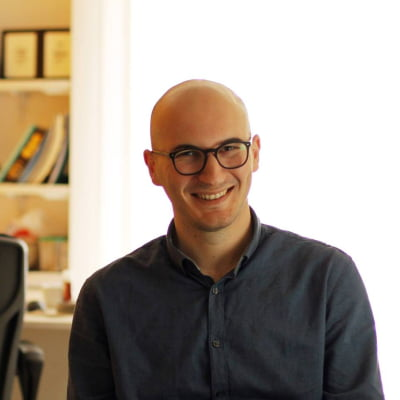
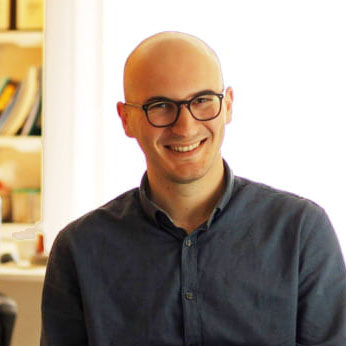
fixed up muhamet's and dijon's pics

diff --git a/dist/js/data.js b/dist/js/data.js
@@ -1,1 +1,1 @@
-var speakers={speakersks:[{img:"img/ermirsuldashi.png",name:"Ermir Suldashi",occupation:"Hacker i njëfarë lloji","img-id":1,text:"Ermir Suldashi",p1:"Ermiri gjithmonë ka dashur të prezantojë në konferencë, prandaj e krijoi debugCon pikërisht për këtë qëllim! \n       Ermirit i pëlqen të eksperimentojë me teknologji të ndryshme, dhe kohëve të fundita po i teston teknologjitë multimediale,\n       duke u fokusuar në WebRTC dhe teknologji tjera të kohës reale.",p2:"Në sistemet multiplayer të videolojave moderne, UDP protokoli përdoret për t'i lidhur lojtarët për shkak të shpejtësisë\n        qe mund të arrihet me të. Lojat e implementuara me JavaScript në browserë nuk e kanë pasur këtë mundësi, që e ka mbajtur\n        mbrapa zhvillimin e kësaj platforme. Në prezentimin e tij, Ermiri do te flase se si teknologjitë e reja me WebRTC mund\n        ta simulojnë UDP për lidhje të shpejta midis lojtarëve, me topologjitë Peer-to-peer dhe Client-Server.",daysText:"",daysSubject:""},{img:"img/denathoxha.jpg","img-id":2,name:"Denat Hoxha",occupation:"Dashamir i arkitekturës dhe dizajnit të softuerit",text:"Denat Hoxha",p1:"Denati që një kohë të gjatë punon profesionalisht në web, dhe ka kaluar nëpër gjuhë programuese dhe frameworks të ndryshme. \n       Përderisa këto kanë ardh e kanë shku, çka ka mbetë nëvojë konstante është kodi i pastër dhe i lexueshëm.",p2:"Dizajn patern-at (Design patterns) janë vegla të dobishme për ata që i njohin dhe dijnë kur me i apliku. Mirëpo, ka\n        shumë raste kur përfundon tu shkaktu dëm, nëse tenton me i apliku aty ku nuk duhet. Denati ka me i prezantu disa shembuj \n        të kurthave të tilla.",daysText:"",daysSubject:""},{img:"img/admir.jpg",name:"Admir Kadriu",occupation:"Full-stack Developer","img-id":3,text:"Admir Kadriu",p1:"Admiri është zhvillues me disa vite përvoje, dhe është dashamir i madh i Redis dhe JavaScript. Në \n        moment punon në Inspire11 Prishtina dhe ligjëron disa lëndë ne Univerzitetin e Prishtinës - FIEK.",p2:"Redis është databazë në memorie (in-memory database) që përdoret gjërësisht si cache, key-value storage, dhe plot\n        përdorime tjera. Këtë vit Redis i mbush 10 vjet (🎂). Në prezantimin e tij, Admiri do të paraqesë disa teknika dhe dobi të Redis në back-end sisteme.",daysText:"",daysSubject:""},{img:"img/rozafa.jpg",name:"Rozafë Llalloshi",occupation:"Full-stack Developer","img-id":4,text:"Rozafë Llalloshi",p1:"",p2:"",daysText:"",daysSubject:""},{img:"img/visar.jpg",name:"Visar Shehu",occupation:"Developer, arkitekt softueri, profesor","img-id":5,text:"Visar Shehu",p1:"Visar Shehu është profesor i asocuar në Universitetin e Evropës Juglindore në Tetovë, Maqedoni. \n        Gjithashtu, ai është edhe drejtor teknik i kompanise Inspire11 në Maqedoni.",p2:"Duke punuar dhe udhëhequr projekte të shumta, Visari ka pasur fatin e mirë që të mesojë dhe provojë\n         shumë gjuhë programuese. Ai është entuziast i teknologjisë dhe këtë entuziazëm dëshiron ta ndajë me të tjerët. Për\n          këtë arsye ai ka vendosur t'i indoktrinojë gjeneratat më të reja. Visari do të flasë për disa iniciativa në STEM \n          edukim dhe çfarë ai përdor për të infektuar të rinjtë me virusin e programimit.",daysText:"",daysSubject:""},{img:"img/tali.jpg",name:"Mehmetali Shaqiri",occupation:"Mjeshtër i infrastrukturës dhe arkitekturës të softuerit","img-id":6,text:"Mehmetali Shaqiri",p1:"",p2:"",daysText:"",daysSubject:""},{img:"img/lum_zhaveli.jpg",name:"Lum Zhaveli",occupation:"Backend Developer, olimpist","img-id":7,text:"Lum Zhaveli",p2:"Lumi do të flasë për efikasitetin energjitik të datacenters, dhe si mund \n        të ulim emetimet e karbonit duke shkruar kod efikas për ndërmarrje dhe pajisje mobile.",p1:"Lumi mirret me programim prej nga mosha 15 vjeçare. Ai punon si Senior Back-End Java\n         developer në OpenResearch. Pasionet e tij në shkencat kompjuterike janë High Performance \n         Computing, Parallel Computing, dhe Computer Graphics (ray-tracing).",daysText:"",daysSubject:""},{img:"img/egzon_zeneli.jpg",name:"Egzon Zeneli",occupation:"","img-id":8,text:"Egzon Zeneli",p1:"Egzoni është Chief Development Officer në Solaborate, ku menaxhon ekipin e softuerit. Nën lidershipin e Egzonit, Solaborate u bart në microservices që lejoi rritjen dhe integrimin e shërbimeve të HELLO 2 në rrjetin e Solaborate.",p2:"Egzoni do të tregojë për disa sfida teknike, në të cilat ka hasur edhe vet, gjatë zhvillimit në gjuhën programuese Go.",daysText:"",daysSubject:""},{img:"img/arnold.gif",name:"Arnold Plakolli",occupation:"iOS Developer","img-id":9,text:"Arnold Plakolli",p1:"Arnoldi është zhvillues me disa vite përvojë pune dhe admirues i produkteve të Apple. \n        Për momentin punon në Solaborate si iOS developer. Arnoldi ka qenë pjesë e ekipit fitues Kosovar në garën\n        Nasa Space Apps 2015 me aplikacionin NatEv Explorer. Vizitoi NASA në Floridë si shpërblim, po nuk e pa lansimin e\n         raketës për shkak se u anulua prej shiut dhe motit të keq.",p2:"Dependency managers janë pjesë kyçe e sistemeve moderne të progamimit, dhe e bëjnë integrimin e librarive të\n         ndryshme shumë të lehtë. Arnoldi do të prezantoj përdorimin, të mirat dhe të metat e dependency managers të ndryshëm \n         për projektet e bazuara në Swift.",daysText:"",daysSubject:""},{img:"img/gent_bicaj.jpg",name:"Gent Bicaj",occupation:"Software Developer, pronar i 20 palë këpucëve për hiking","img-id":10,text:"Gent Bicaj",p1:"Genti ka nje eksperiencë pune si zhvillues i softuerëve dhe per momentin punon si BackEnd Developer në Solaborate\n         LLC. Genti kryesisht zhvillon në .NET por nganjëherë  edhe në React (JS & Native).",p2:"Çka i pelqejnë Gentit shumë janë Stored Procedures dhe SQL-Queries, për këtë arsye ai ka zgjedh me na tregu qysh\n         indeksat e rrisin performancen në SQL.",daysText:"",daysSubject:""},{img:"img/robert.jpg",name:"Robert Shala",occupation:"Information Security Specialist","img-id":11,text:"Robert Shala",p1:"Roberti është Drejtor dhe Specialist i Sigurimit të Informacioneve në Sentry Cybersecurity, një prej të vetmeve kompani të tilla \n        në Kosovë. Jashtë teknologjisë, Roberti është muzikant i flaktë dhe merr pjesë në disa grupe muzikore.",p2:"Aplikimi i AI/ML algoritmeve është bërë i dëshirueshëm në shumë produkte sepse është efektiv për zgjidhjen e shumë problemeve. Roberti\n         do të flasë për trendet dhe teknikat ofansive kundër AI/ML algoritmeve si dhe rreziqet në implementime të ndryshme.",daysText:"",daysSubject:""},{img:"img/fiona_podrimaj.jpg",name:"Fiona Podrimaj",occupation:"PO/iOS Developer","img-id":12,text:"Fiona Podrimaj",p1:"Fiona aktualisht punon si Product Owner në SPRIGS dhe mirret me zhvillimin e aplikacioneve mobile, përkatësisht iOS.",p2:"Fiona do te flasë për JIRA, softuer menaxhues e cila po përdoret më shumë e më shumë nga zhvilluesit; mirëpo, \n        pak prej nesh dijmë se si ta përdorim maksimalisht potencialin e kësaj vegle.",daysText:"",daysSubject:""},{img:"img/driton.jpg",name:"Driton Haxhiu",occupation:"Developer and tech evangelist","img-id":13,text:"Driton Haxhiu",p1:"Dritoni ka pasion teknologjinë dhe shpërndarjen e saj në gjeneratat e reja. Ai ka mbajur dhjetra kurse, workshope, dhe panele,\n        me grupe të të gjitha moshave, duke perfshirë edhe grupin e fëmijëve Young Coders Kosovo.",p2:"Në React aplikacionet komplekse është vështirë të pasohen të dhënat prej një komponenti në tjetrin nëse nuk kanë\n         prind të përbashkët. Për zgjidhjen e këtij problemi janë shpikur veglat si Redux dhe React Context, dhe Dritoni do të flasë për\n         përparësitë dhe mangësitë e këtyre veglave.",daysText:"",daysSubject:""},{img:"img/rita.jpg",name:"Rita Dobruna",occupation:"Android Developer","img-id":14,text:"Rita Dobruna",p1:"Rita punon si Android Developer në kompaninë OpenResearch. Jashtë programimit, Rita ka pasion vallëzimin, meditimin, dhe yoga.",p2:"Si programere me përvojë shumëvjeçare me Android, Rita ka pasur rast të jetë pjesë e disa projekteve që përdorin Java, por \n        edhe Kotlin. Kotlin, si gjuha e ardhmërisë së Android, preferohet të përdoret nga Google, por hala egziston shumë kod në Java\n        që duhet të bashkëpunojë ose të bartet në Kotlin. Rita do të flasë për tranzicionin nga Java në Kotlin në kontekst të Android.",daysText:"",daysSubject:""},{img:"img/grese.jpg",name:"Gresë Hyseni",occupation:"Web Developer","img-id":15,text:"Gresë Hyseni",p1:"Gresa ka qenë Web Developer për më shumë se tre vite. Vitin e fundit ajo ka hyre edhe në botën e të dhënave, \n        por programimi në web vazhdon të jetë pasion i saj. Në eksperiencën e fundit të saj gjatë një programi certifikues\n         në web, ajo u njoftua me shumë teknologji të reja e të dobishme, ndër to është edhe Flexbox.",p2:"Flexbox është sistemi më i ri i vendosjes dhe shpërndarjes së elementeve në HTML përmes CSS. Ky sistem u shpik nga \n        prodhuesit e browserëve dhe grupit punues WHATWG për shkak të vështirësive të deriathërëshme për një gjë të tillë. \n        Me Flexbox është e mundur të përzihen elementet me dimenzione fikse dhe ato fleksibile, dhe të bëhet rirenditja sipas\n         rrethanave dhe materialeve. Gresa do të flasë për disa teknika të Flexbox dhe përparësitë e tyre.",daysText:"",daysSubject:""},{img:"img/sadi.jpg",name:"Sadi Qevani",occupation:"Blockchain developer, dhe shumë tjera","img-id":16,text:"Sadi Qevani",p1:"Sadi e krijoi dhe shiti biznesin e tij të parë teknologjik hala pa i mbushur 20 vjet. Ka udhëtuar botën, ka provuar\n        çdo teknologji të mundshme, dhe vjen nga Berlini veçanërisht për debugCon. Momentalisht punon si Lead Blockchain Developer\n        në Ape Unit në Berlin, Gjermani.",p2:"",daysText:"",daysSubject:""},{img:"img/hakan_shehu.jpg",name:"Hakan Shehu",occupation:"Lead Software Engineer","img-id":17,text:"Hakan Shehu",p1:"Hakani është i angazhuar si lead software engineer në Gjirafa, Inc. Ai poashtu ka punuar si tutor\n         në lëndën e programimit të orientuar në objekte në UBT. Duke qenë pjesë e produkteve të ndryshme,\n          ai ka eksperiencë me web developing, dev-ops, machine learning e pak edhe me mobile.",p2:"Si zhvillues në një kompani që proceson sasi masive të informatave, Hakani do të flasë rreth\n         infrastrukturës së procesimit dhe analizimit të të dhënave brenda Gjirafes.",daysText:"",daysSubject:""},{img:"img/besart.jpg",name:"Besart Kuleta",occupation:"Software Developer and Data Enthusiast","img-id":18,text:"Besart Kuleta",p1:"Besarti është Software Developer me eksperiencë në zhvillimin e web dhe mobile aplikacioneve. Si i apasionuar për të\n         dhënat dhe analizën e tyre, ai do të prezentojë një rast studimi se si të dhënat mund t'i ndihmojnë marketet e mëdha në\n         ndërtimin e kampanjave të marketingut.",p2:"",daysText:"",daysSubject:""},{img:"img/blend_halilaj.jpg",name:"Blend Halilaj",occupation:"Senior Software Engineer","img-id":19,text:"Blend Halilaj",p1:"Blendi është një senior software engineer ne Gjirafa, Inc. Në 2 vitet e fundit Blendi është marrë kryesisht me \n        stream. Jo stream si gamer, por ka punuar intensivisht në infrastrukturën e stream-it të GjirafaVideo duke \n        përfshirë enkodimet, cache, dhe live-stream. Në konferencë ai do të ndajë me neve disa nga mësimet që i ka hasur\n         gjatë kësaj eksperience.",p2:"",daysText:"",daysSubject:""},{img:"img/kushtrim_pacaj.jpg",name:"Kushtrim Pacaj",occupation:"Lead Android Developer","img-id":20,text:"Kushtrim Pacaj",p1:"Kushtrimi e ka kaluar një pjesë të mirë të karrierës duke punuar në Android, e posaçërisht i pëlqen me e \n        përdorë për me kriju funksionalitete cool me HELLO 2 😃",p2:"Në debugCon, Kushtrimi do të flasë për Android internals: krijimin e custom system services. Services jane programe\n        të veçanta të cilat janë aktive në prapavijë të sistemit operativ dhe përdoren për aktivitete që kanë të bejnë me krejt\n        sistemin ose kanë nevojë të jenë aktive gjatë gjithë kohës. Shembuj janë anti-virusët, sistemet e planifikimit (scheduling),\n        background listeners për komanda, etj.",daysText:"",daysSubject:""},{img:"img/muhamed.jpg",name:"Muhamed Retkoceri",occupation:"Algorithm Engineer","img-id":21,text:"Muhamed Retkoceri",p1:"Muhamedi është një Software Engineer dhe etuziast i algoritmeve, duke përfshirë ato klasike por veçanërisht\n        algoritmeve të Machine Learning. Ai është bashkëthemelues i Algorithmics, një kompani Kosovare që merret me aplikimin e Machine\n        Learning dhe algoritmeve të optimizimit në probleme të ndryshme të industrisë. Ai poashtu është i angazhuar në \n        Universitetin për Biznes dhe Teknologji si asistent dhe ligjërues i Lëndës së Algoritmeve dhe Strukturave të të dhënave.",p2:"",daysText:"",daysSubject:""},{img:"img/who.png"},{img:"img/who.png"},{img:"img/who.png"}]},sponsors={sponsorsks:[{img:"img/sponsor1.png"},{img:"img/sponsor1.png"},{img:"img/sponsor1.png"},{img:"img/sponsor1.png"},{img:"img/sponsor1.png"},{img:"img/sponsor1.png"},{img:"img/sponsor1.png"},{img:"img/sponsor1.png"},{img:"img/sponsor1.png"},{img:"img/sponsor1.png"},{img:"img/sponsor1.png"},{img:"img/sponsor1.png"},{img:"img/sponsor1.png"},{img:"img/sponsor1.png"},{img:"img/sponsor1.png"},{img:"img/sponsor1.png"}]};
+var speakers={speakersks:[{img:"img/ermirsuldashi.png",name:"Ermir Suldashi",occupation:"Hacker i njëfarë lloji","img-id":1,text:"Ermir Suldashi",p1:"Ermiri gjithmonë ka dashur të prezantojë në konferencë, prandaj e krijoi debugCon pikërisht për këtë qëllim! \n       Ermirit i pëlqen të eksperimentojë me teknologji të ndryshme, dhe kohëve të fundita po i teston teknologjitë multimediale,\n       duke u fokusuar në WebRTC dhe teknologji tjera të kohës reale.",p2:"Në sistemet multiplayer të videolojave moderne, UDP protokoli përdoret për t'i lidhur lojtarët për shkak të shpejtësisë\n        qe mund të arrihet me të. Lojat e implementuara me JavaScript në browserë nuk e kanë pasur këtë mundësi, që e ka mbajtur\n        mbrapa zhvillimin e kësaj platforme. Në prezentimin e tij, Ermiri do te flase se si teknologjitë e reja me WebRTC mund\n        ta simulojnë UDP për lidhje të shpejta midis lojtarëve, me topologjitë Peer-to-peer dhe Client-Server.",daysText:"",daysSubject:""},{img:"img/denathoxha.jpg","img-id":2,name:"Denat Hoxha",occupation:"Dashamir i arkitekturës dhe dizajnit të softuerit",text:"Denat Hoxha",p1:"Denati që një kohë të gjatë punon profesionalisht në web, dhe ka kaluar nëpër gjuhë programuese dhe frameworks të ndryshme. \n       Përderisa këto kanë ardh e kanë shku, çka ka mbetë nëvojë konstante është kodi i pastër dhe i lexueshëm.",p2:"Dizajn patern-at (Design patterns) janë vegla të dobishme për ata që i njohin dhe dijnë kur me i apliku. Mirëpo, ka\n        shumë raste kur përfundon tu shkaktu dëm, nëse tenton me i apliku aty ku nuk duhet. Denati ka me i prezantu disa shembuj \n        të kurthave të tilla.",daysText:"",daysSubject:""},{img:"img/admir.jpg",name:"Admir Kadriu",occupation:"Full-stack Developer","img-id":3,text:"Admir Kadriu",p1:"Admiri është zhvillues me disa vite përvoje, dhe është dashamir i madh i Redis dhe JavaScript. Në \n        moment punon në Inspire11 Prishtina dhe ligjëron disa lëndë ne Univerzitetin e Prishtinës - FIEK.",p2:"Redis është databazë në memorie (in-memory database) që përdoret gjërësisht si cache, key-value storage, dhe plot\n        përdorime tjera. Këtë vit Redis i mbush 10 vjet (🎂). Në prezantimin e tij, Admiri do të paraqesë disa teknika dhe dobi të Redis në back-end sisteme.",daysText:"",daysSubject:""},{img:"img/rozafa.jpg",name:"Rozafë Llalloshi",occupation:"Full-stack Developer","img-id":4,text:"Rozafë Llalloshi",p1:"",p2:"",daysText:"",daysSubject:""},{img:"img/visar.jpg",name:"Visar Shehu",occupation:"Developer, arkitekt softueri, profesor","img-id":5,text:"Visar Shehu",p1:"Visar Shehu është profesor i asocuar në Universitetin e Evropës Juglindore në Tetovë, Maqedoni. \n        Gjithashtu, ai është edhe drejtor teknik i kompanise Inspire11 në Maqedoni.",p2:"Duke punuar dhe udhëhequr projekte të shumta, Visari ka pasur fatin e mirë që të mesojë dhe provojë\n         shumë gjuhë programuese. Ai është entuziast i teknologjisë dhe këtë entuziazëm dëshiron ta ndajë me të tjerët. Për\n          këtë arsye ai ka vendosur t'i indoktrinojë gjeneratat më të reja. Visari do të flasë për disa iniciativa në STEM \n          edukim dhe çfarë ai përdor për të infektuar të rinjtë me virusin e programimit.",daysText:"",daysSubject:""},{img:"img/tali.jpg",name:"Mehmetali Shaqiri",occupation:"Mjeshtër i infrastrukturës dhe arkitekturës të softuerit","img-id":6,text:"Mehmetali Shaqiri",p1:"",p2:"",daysText:"",daysSubject:""},{img:"img/lum_zhaveli.jpg",name:"Lum Zhaveli",occupation:"Backend Developer, olimpist","img-id":7,text:"Lum Zhaveli",p2:"Lumi do të flasë për efikasitetin energjitik të datacenters, dhe si mund \n        të ulim emetimet e karbonit duke shkruar kod efikas për ndërmarrje dhe pajisje mobile.",p1:"Lumi mirret me programim prej nga mosha 15 vjeçare. Ai punon si Senior Back-End Java\n         developer në OpenResearch. Pasionet e tij në shkencat kompjuterike janë High Performance \n         Computing, Parallel Computing, dhe Computer Graphics (ray-tracing).",daysText:"",daysSubject:""},{img:"img/egzon_zeneli.jpg",name:"Egzon Zeneli",occupation:"","img-id":8,text:"Egzon Zeneli",p1:"Egzoni është Chief Development Officer në Solaborate, ku menaxhon ekipin e softuerit. Nën lidershipin e Egzonit, Solaborate u bart në microservices që lejoi rritjen dhe integrimin e shërbimeve të HELLO 2 në rrjetin e Solaborate.",p2:"Egzoni do të tregojë për disa sfida teknike, në të cilat ka hasur edhe vet, gjatë zhvillimit në gjuhën programuese Go.",daysText:"",daysSubject:""},{img:"img/arnold.gif",name:"Arnold Plakolli",occupation:"iOS Developer","img-id":9,text:"Arnold Plakolli",p1:"Arnoldi është zhvillues me disa vite përvojë pune dhe admirues i produkteve të Apple. \n        Për momentin punon në Solaborate si iOS developer. Arnoldi ka qenë pjesë e ekipit fitues Kosovar në garën\n        Nasa Space Apps 2015 me aplikacionin NatEv Explorer. Vizitoi NASA në Floridë si shpërblim, po nuk e pa lansimin e\n         raketës për shkak se u anulua prej shiut dhe motit të keq.",p2:"Dependency managers janë pjesë kyçe e sistemeve moderne të progamimit, dhe e bëjnë integrimin e librarive të\n         ndryshme shumë të lehtë. Arnoldi do të prezantoj përdorimin, të mirat dhe të metat e dependency managers të ndryshëm \n         për projektet e bazuara në Swift.",daysText:"",daysSubject:""},{img:"img/gent_bicaj.jpg",name:"Gent Bicaj",occupation:"Software Developer, pronar i 20 palë këpucëve për hiking","img-id":10,text:"Gent Bicaj",p1:"Genti ka nje eksperiencë pune si zhvillues i softuerëve dhe per momentin punon si BackEnd Developer në Solaborate\n         LLC. Genti kryesisht zhvillon në .NET por nganjëherë  edhe në React (JS & Native).",p2:"Çka i pelqejnë Gentit shumë janë Stored Procedures dhe SQL-Queries, për këtë arsye ai ka zgjedh me na tregu qysh\n         indeksat e rrisin performancen në SQL.",daysText:"",daysSubject:""},{img:"img/robert.jpg",name:"Robert Shala",occupation:"Information Security Specialist","img-id":11,text:"Robert Shala",p1:"Roberti është Drejtor dhe Specialist i Sigurimit të Informacioneve në Sentry Cybersecurity, një prej të vetmeve kompani të tilla \n        në Kosovë. Jashtë teknologjisë, Roberti është muzikant i flaktë dhe merr pjesë në disa grupe muzikore.",p2:"Aplikimi i AI/ML algoritmeve është bërë i dëshirueshëm në shumë produkte sepse është efektiv për zgjidhjen e shumë problemeve. Roberti\n         do të flasë për trendet dhe teknikat ofansive kundër AI/ML algoritmeve si dhe rreziqet në implementime të ndryshme.",daysText:"",daysSubject:""},{img:"img/fiona_podrimaj.jpg",name:"Fiona Podrimaj",occupation:"PO/iOS Developer","img-id":12,text:"Fiona Podrimaj",p1:"Fiona aktualisht punon si Product Owner në SPRIGS dhe mirret me zhvillimin e aplikacioneve mobile, përkatësisht iOS.",p2:"Fiona do te flasë për JIRA, softuer menaxhues e cila po përdoret më shumë e më shumë nga zhvilluesit; mirëpo, \n        pak prej nesh dijmë se si ta përdorim maksimalisht potencialin e kësaj vegle.",daysText:"",daysSubject:""},{img:"img/driton.jpg",name:"Driton Haxhiu",occupation:"Developer and tech evangelist","img-id":13,text:"Driton Haxhiu",p1:"Dritoni ka pasion teknologjinë dhe shpërndarjen e saj në gjeneratat e reja. Ai ka mbajur dhjetra kurse, workshope, dhe panele,\n        me grupe të të gjitha moshave, duke perfshirë edhe grupin e fëmijëve Young Coders Kosovo.",p2:"Në React aplikacionet komplekse është vështirë të pasohen të dhënat prej një komponenti në tjetrin nëse nuk kanë\n         prind të përbashkët. Për zgjidhjen e këtij problemi janë shpikur veglat si Redux dhe React Context, dhe Dritoni do të flasë për\n         përparësitë dhe mangësitë e këtyre veglave.",daysText:"",daysSubject:""},{img:"img/rita.jpg",name:"Rita Dobruna",occupation:"Android Developer","img-id":14,text:"Rita Dobruna",p1:"Rita punon si Android Developer në kompaninë OpenResearch. Jashtë programimit, Rita ka pasion vallëzimin, meditimin, dhe yoga.",p2:"Si programere me përvojë shumëvjeçare me Android, Rita ka pasur rast të jetë pjesë e disa projekteve që përdorin Java, por \n        edhe Kotlin. Kotlin, si gjuha e ardhmërisë së Android, preferohet të përdoret nga Google, por hala egziston shumë kod në Java\n        që duhet të bashkëpunojë ose të bartet në Kotlin. Rita do të flasë për tranzicionin nga Java në Kotlin në kontekst të Android.",daysText:"",daysSubject:""},{img:"img/grese.jpg",name:"Gresë Hyseni",occupation:"Web Developer","img-id":15,text:"Gresë Hyseni",p1:"Gresa ka qenë Web Developer për më shumë se tre vite. Vitin e fundit ajo ka hyre edhe në botën e të dhënave, \n        por programimi në web vazhdon të jetë pasion i saj. Në eksperiencën e fundit të saj gjatë një programi certifikues\n         në web, ajo u njoftua me shumë teknologji të reja e të dobishme, ndër to është edhe Flexbox.",p2:"Flexbox është sistemi më i ri i vendosjes dhe shpërndarjes së elementeve në HTML përmes CSS. Ky sistem u shpik nga \n        prodhuesit e browserëve dhe grupit punues WHATWG për shkak të vështirësive të deriathërëshme për një gjë të tillë. \n        Me Flexbox është e mundur të përzihen elementet me dimenzione fikse dhe ato fleksibile, dhe të bëhet rirenditja sipas\n         rrethanave dhe materialeve. Gresa do të flasë për disa teknika të Flexbox dhe përparësitë e tyre.",daysText:"",daysSubject:""},{img:"img/sadi.jpg",name:"Sadi Qevani",occupation:"Blockchain developer, dhe shumë tjera","img-id":16,text:"Sadi Qevani",p1:"Sadi e krijoi dhe shiti biznesin e tij të parë teknologjik hala pa i mbushur 20 vjet. Ka udhëtuar botën, ka provuar\n        çdo teknologji të mundshme, dhe vjen nga Berlini veçanërisht për debugCon. Momentalisht punon si Lead Blockchain Developer\n        në Ape Unit në Berlin, Gjermani.",p2:"",daysText:"",daysSubject:""},{img:"img/hakan_shehu.jpg",name:"Hakan Shehu",occupation:"Lead Software Engineer","img-id":17,text:"Hakan Shehu",p1:"Hakani është i angazhuar si lead software engineer në Gjirafa, Inc. Ai poashtu ka punuar si tutor\n         në lëndën e programimit të orientuar në objekte në UBT. Duke qenë pjesë e produkteve të ndryshme,\n          ai ka eksperiencë me web developing, dev-ops, machine learning e pak edhe me mobile.",p2:"Si zhvillues në një kompani që proceson sasi masive të informatave, Hakani do të flasë rreth\n         infrastrukturës së procesimit dhe analizimit të të dhënave brenda Gjirafes.",daysText:"",daysSubject:""},{img:"img/besart.jpg",name:"Besart Kuleta",occupation:"Software Developer and Data Enthusiast","img-id":18,text:"Besart Kuleta",p1:"Besarti është Software Developer me eksperiencë në zhvillimin e web dhe mobile aplikacioneve. Si i apasionuar për të\n         dhënat dhe analizën e tyre, ai do të prezentojë një rast studimi se si të dhënat mund t'i ndihmojnë marketet e mëdha në\n         ndërtimin e kampanjave të marketingut.",p2:"",daysText:"",daysSubject:""},{img:"img/blend_halilaj.jpg",name:"Blend Halilaj",occupation:"Senior Software Engineer","img-id":19,text:"Blend Halilaj",p1:"Blendi është një senior software engineer ne Gjirafa, Inc. Në 2 vitet e fundit Blendi është marrë kryesisht me \n        stream. Jo stream si gamer, por ka punuar intensivisht në infrastrukturën e stream-it të GjirafaVideo duke \n        përfshirë enkodimet, cache, dhe live-stream. Në konferencë ai do të ndajë me neve disa nga mësimet që i ka hasur\n         gjatë kësaj eksperience.",p2:"",daysText:"",daysSubject:""},{img:"img/kushtrim_pacaj.jpg",name:"Kushtrim Pacaj",occupation:"Lead Android Developer","img-id":20,text:"Kushtrim Pacaj",p1:"Kushtrimi e ka kaluar një pjesë të mirë të karrierës duke punuar në Android, e posaçërisht i pëlqen me e \n        përdorë për me kriju funksionalitete cool me HELLO 2 😃",p2:"Në debugCon, Kushtrimi do të flasë për Android internals: krijimin e custom system services. Services jane programe\n        të veçanta të cilat janë aktive në prapavijë të sistemit operativ dhe përdoren për aktivitete që kanë të bejnë me krejt\n        sistemin ose kanë nevojë të jenë aktive gjatë gjithë kohës. Shembuj janë anti-virusët, sistemet e planifikimit (scheduling),\n        background listeners për komanda, etj.",daysText:"",daysSubject:""},{img:"img/muhamed.jpg",name:"Muhamet Retkoceri",occupation:"Algorithm Engineer","img-id":21,text:"Muhamed Retkoceri",p1:"Muhamedi është një Software Engineer dhe etuziast i algoritmeve, duke përfshirë ato klasike por veçanërisht\n        algoritmeve të Machine Learning. Ai është bashkëthemelues i Algorithmics, një kompani Kosovare që merret me aplikimin e Machine\n        Learning dhe algoritmeve të optimizimit në probleme të ndryshme të industrisë. Ai poashtu është i angazhuar në \n        Universitetin për Biznes dhe Teknologji si asistent dhe ligjërues i Lëndës së Algoritmeve dhe Strukturave të të dhënave.",p2:"",daysText:"",daysSubject:""},{img:"img/muhamet_kacuri.jpg",name:"Muhamet Kaçuri",occupation:"Software Developer","img-id":22,text:"Muhamet Kaçuri",p1:"Muhameti ka një eksperiencë pune si zhvillues në web dhe për momentin punon si Angular Developer në Solaborate LLC.\n         Përpos Angular, Muhameti ka dashuri të madhe për gjithçka .NET",p2:"Muhameti do të flasë për Decision Trees dhe si mund të mësojmë nga të dhënat për të marrë vendime.",daysText:"",daysSubject:""},{img:"img/dijon_vula.jpg",name:"Dijon Vula",occupation:"Hardware Architect","img-id":23,text:"Dijon Vula",p1:"",p2:"",daysText:"",daysSubject:""},{img:"img/who.png"}]},sponsors={sponsorsks:[{img:"img/sponsor1.png"},{img:"img/sponsor1.png"},{img:"img/sponsor1.png"},{img:"img/sponsor1.png"},{img:"img/sponsor1.png"},{img:"img/sponsor1.png"},{img:"img/sponsor1.png"},{img:"img/sponsor1.png"},{img:"img/sponsor1.png"},{img:"img/sponsor1.png"},{img:"img/sponsor1.png"},{img:"img/sponsor1.png"},{img:"img/sponsor1.png"},{img:"img/sponsor1.png"},{img:"img/sponsor1.png"},{img:"img/sponsor1.png"}]};

diff --git a/js/data.js b/js/data.js
@@ -271,7 +271,8 @@
         occupation: 'Software Developer',
         'img-id': 22,
         text: `Muhamet Kaçuri`,
-        p1: `Muhameti ka një eksperiencë pune si zhvillues në web dhe për momentin punon si Angular Developer në Solaborate LLC. Përpos Angular, Muhameti ka dashuri të madhe për gjithçka .NET`,
+        p1: `Muhameti ka një eksperiencë pune si zhvillues në web dhe për momentin punon si Angular Developer në Solaborate LLC.
+         Përpos Angular, Muhameti ka dashuri të madhe për gjithçka .NET`,
         p2: `Muhameti do të flasë për Decision Trees dhe si mund të mësojmë nga të dhënat për të marrë vendime.`,
         daysText: "",
         daysSubject: ""
